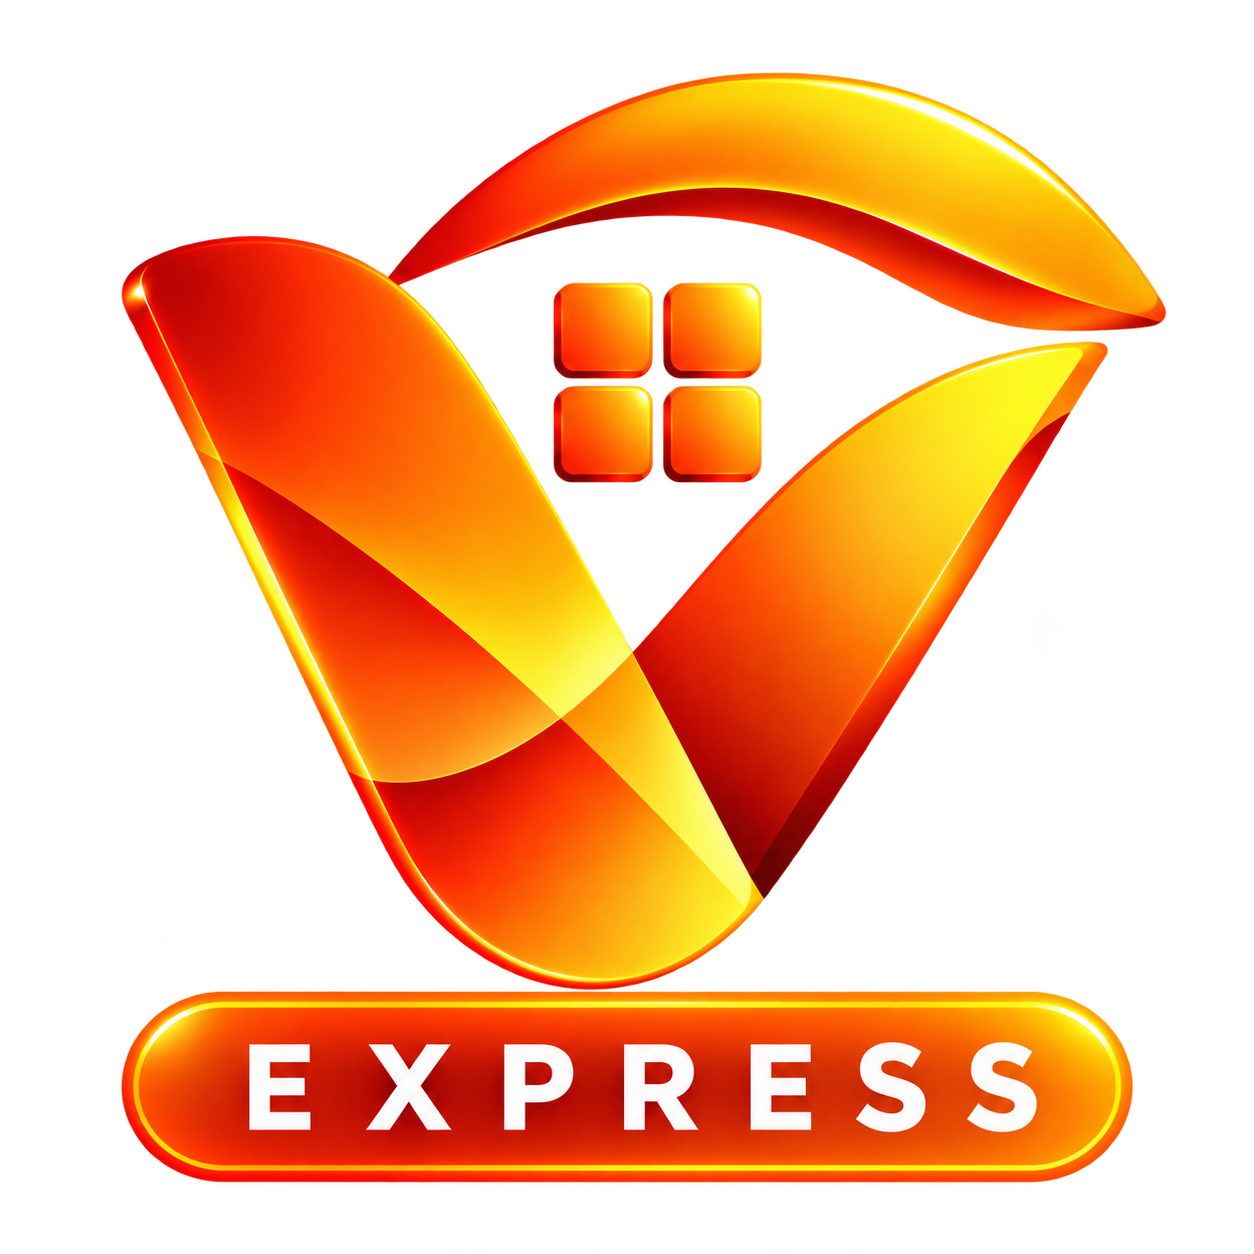
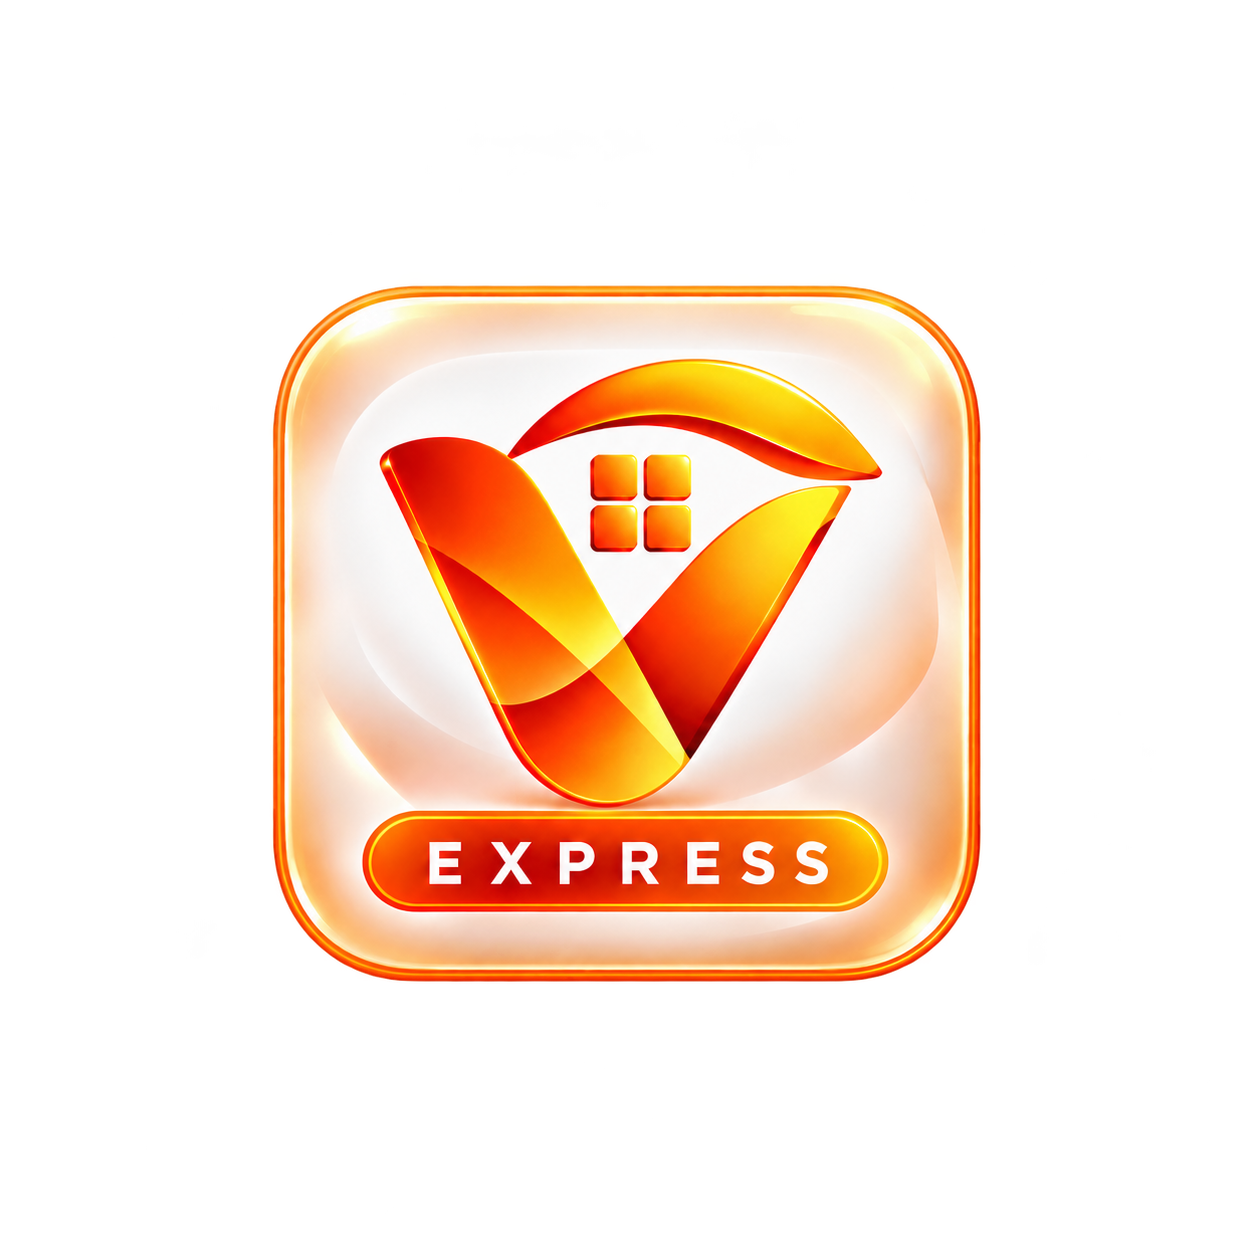
j

diff --git a/src/screens/auth/AuthScreens.tsx b/src/screens/auth/AuthScreens.tsx
@@ -21,6 +21,7 @@ import { colors, radius, shadow } from '../../theme/tokens';
 const footer = (question: string, action: string, onPress: () => void) => (
   <Text style={styles.footerText}>{question} <Text onPress={onPress} style={styles.footerAction}>{action}</Text></Text>
 );
+const sellerLogo = require('../../../assets/brand/vista-seller-logo.png');
 
 function ErrorNotice({ error }: { error: string | null }) {
   return error ? <View accessibilityRole="alert" style={styles.errorNotice}><MaterialCommunityIcons name="alert-circle-outline" size={18} color={colors.red} /><Text style={styles.errorText}>{error}</Text></View> : null;
@@ -31,8 +32,7 @@ export function SplashScreen() {
   return (
     <Screen scroll={false} backgroundColor="#0B3268" statusBarStyle="light" transparentStatusBar style={styles.splash} contentStyle={styles.splashContent}>
       <View style={styles.splashGlowOne} /><View style={styles.splashGlowTwo} />
-      <View style={styles.splashMark}><MaterialCommunityIcons name="glasses" size={46} color="#FFFFFF" /></View>
-      <Text style={styles.splashTitle}>VistaExpress</Text>
+      <View style={styles.splashMark}><Image source={sellerLogo} resizeMode="contain" style={styles.splashLogo} /></View>
       <Text style={styles.splashEyebrow}>{t('splash.eyebrow')}</Text>
       <View style={styles.splashFooter}><View style={styles.loadingBar}><View style={styles.loadingProgress} /></View><Text style={styles.splashCaption}>{t('splash.caption')}</Text></View>
     </Screen>
@@ -65,6 +65,7 @@ export function OnboardingScreen() {
         <View style={[styles.onboardingHero, compact && styles.onboardingHeroCompact]}>
           <Image source={current.image} resizeMode="stretch" style={[styles.onboardingHeroImage, { width, height: width * ONBOARDING_ART_ASPECT_RATIO }]} />
           <LinearGradient colors={['rgba(2, 18, 44, 0.04)', 'rgba(2, 18, 44, 0.20)']} style={styles.onboardingHeroShade} />
+          <View accessibilityRole="image" accessibilityLabel={t('onboarding.page1.eyebrow')} style={styles.onboardingBrandLogo}><Image source={sellerLogo} resizeMode="contain" style={styles.onboardingBrandLogoImage} /></View>
           <View style={styles.onboardingLanguageToggle}><LanguageToggle variant="overlay" /></View>
         </View>
 
@@ -289,8 +290,8 @@ function ReviewStep({ number, color, iconColor, title, copy }: { number: string;
 }
 
 const styles = StyleSheet.create({
-  splash: { backgroundColor: '#0B3268' }, splashContent: { alignItems: 'center', justifyContent: 'center', padding: 28 }, splashGlowOne: { position: 'absolute', top: -100, left: -75, width: 270, height: 270, borderRadius: 135, backgroundColor: '#1765C9', opacity: 0.55 }, splashGlowTwo: { position: 'absolute', bottom: -80, right: -60, width: 230, height: 230, borderRadius: 115, backgroundColor: '#23B09B', opacity: 0.55 }, splashMark: { width: 94, height: 94, borderRadius: 31, alignItems: 'center', justifyContent: 'center', backgroundColor: 'rgba(255,255,255,0.16)', borderWidth: 1, borderColor: 'rgba(255,255,255,0.27)' }, splashTitle: { color: '#FFFFFF', fontSize: 32, letterSpacing: -1.2, fontWeight: '800', marginTop: 18 }, splashEyebrow: { color: '#D8EEFF', fontSize: 11, letterSpacing: 1.4, fontWeight: '800', marginTop: 5 }, splashFooter: { position: 'absolute', bottom: 44, left: 28, right: 28 }, loadingBar: { height: 4, backgroundColor: 'rgba(255,255,255,0.2)', borderRadius: 99, overflow: 'hidden' }, loadingProgress: { width: '68%', height: '100%', borderRadius: 99, backgroundColor: '#FFFFFF' }, splashCaption: { textAlign: 'center', marginTop: 12, color: '#D8EEFF', fontSize: 12 },
-  onboarding: { backgroundColor: '#FFFFFF' }, onboardingPage: { flex: 1, backgroundColor: '#FFFFFF' }, onboardingHero: { height: '59%', minHeight: 392, overflow: 'hidden' }, onboardingHeroCompact: { height: '56%', minHeight: 348 }, onboardingHeroImage: { position: 'absolute', top: 0, left: 0 }, onboardingHeroShade: { ...StyleSheet.absoluteFill }, onboardingLanguageToggle: { position: 'absolute', top: 14, right: 18 }, onboardingCard: { flex: 1, marginTop: -72, minHeight: 316, borderTopLeftRadius: 34, borderTopRightRadius: 34, backgroundColor: '#FFFFFF', paddingHorizontal: 28, paddingTop: 27, paddingBottom: 18, shadowColor: '#0B1930', shadowOpacity: 0.11, shadowRadius: 22, shadowOffset: { width: 0, height: -7 }, elevation: 9 }, onboardingCardCompact: { minHeight: 292, paddingTop: 22, paddingHorizontal: 24 }, onboardingDots: { flexDirection: 'row', alignItems: 'center', gap: 8, marginBottom: 24 }, onboardingDot: { width: 8, height: 8, borderRadius: 99, backgroundColor: '#DDE4ED' }, onboardingDotActive: { width: 24, backgroundColor: colors.teal }, onboardingEyebrow: { color: colors.teal, fontSize: 11, lineHeight: 15, fontWeight: '800', letterSpacing: 1.35, textTransform: 'uppercase' }, onboardingTitle: { color: colors.ink, fontSize: 31, lineHeight: 37, letterSpacing: -1.15, fontWeight: '800', marginTop: 9 }, onboardingDescription: { color: colors.muted, fontSize: 15, lineHeight: 22, marginTop: 10, maxWidth: 340 }, onboardingFooter: { marginTop: 'auto', paddingTop: 18, gap: 14 }, onboardingButton: { minHeight: 54, borderRadius: 16, paddingHorizontal: 20, alignItems: 'center', justifyContent: 'center', flexDirection: 'row', gap: 9, backgroundColor: '#0B3976', shadowColor: '#0B3976', shadowOpacity: 0.28, shadowRadius: 16, shadowOffset: { width: 0, height: 8 }, elevation: 5 }, onboardingButtonText: { color: '#FFFFFF', fontSize: 16, fontWeight: '800' }, onboardingButtonPressed: { opacity: 0.88, transform: [{ scale: 0.99 }] }, onboardingBottomSkip: { alignSelf: 'center', minHeight: 24, justifyContent: 'center', paddingHorizontal: 10 }, onboardingBottomSkipText: { color: '#7B899B', fontSize: 13, fontWeight: '800' },
+  splash: { backgroundColor: '#0B3268' }, splashContent: { alignItems: 'center', justifyContent: 'center', padding: 28 }, splashGlowOne: { position: 'absolute', top: -100, left: -75, width: 270, height: 270, borderRadius: 135, backgroundColor: '#1765C9', opacity: 0.55 }, splashGlowTwo: { position: 'absolute', bottom: -80, right: -60, width: 230, height: 230, borderRadius: 115, backgroundColor: '#23B09B', opacity: 0.55 }, splashMark: { width: 196, height: 98, padding: 5, borderRadius: 29, alignItems: 'center', justifyContent: 'center', backgroundColor: 'rgba(255,255,255,0.94)', borderWidth: 1, borderColor: 'rgba(255,255,255,0.82)' }, splashLogo: { width: '100%', height: '100%' }, splashEyebrow: { color: '#D8EEFF', fontSize: 11, letterSpacing: 1.4, fontWeight: '800', marginTop: 12 }, splashFooter: { position: 'absolute', bottom: 44, left: 28, right: 28 }, loadingBar: { height: 4, backgroundColor: 'rgba(255,255,255,0.2)', borderRadius: 99, overflow: 'hidden' }, loadingProgress: { width: '68%', height: '100%', borderRadius: 99, backgroundColor: '#FFFFFF' }, splashCaption: { textAlign: 'center', marginTop: 12, color: '#D8EEFF', fontSize: 12 },
+  onboarding: { backgroundColor: '#FFFFFF' }, onboardingPage: { flex: 1, backgroundColor: '#FFFFFF' }, onboardingHero: { height: '59%', minHeight: 392, overflow: 'hidden' }, onboardingHeroCompact: { height: '56%', minHeight: 348 }, onboardingHeroImage: { position: 'absolute', top: 0, left: 0 }, onboardingHeroShade: { ...StyleSheet.absoluteFill }, onboardingBrandLogo: { position: 'absolute', top: 12, left: 16, width: 120, height: 60, padding: 4, borderRadius: 16, backgroundColor: 'rgba(255,255,255,0.92)' }, onboardingBrandLogoImage: { width: '100%', height: '100%' }, onboardingLanguageToggle: { position: 'absolute', top: 14, right: 18 }, onboardingCard: { flex: 1, marginTop: -72, minHeight: 316, borderTopLeftRadius: 34, borderTopRightRadius: 34, backgroundColor: '#FFFFFF', paddingHorizontal: 28, paddingTop: 27, paddingBottom: 18, shadowColor: '#0B1930', shadowOpacity: 0.11, shadowRadius: 22, shadowOffset: { width: 0, height: -7 }, elevation: 9 }, onboardingCardCompact: { minHeight: 292, paddingTop: 22, paddingHorizontal: 24 }, onboardingDots: { flexDirection: 'row', alignItems: 'center', gap: 8, marginBottom: 24 }, onboardingDot: { width: 8, height: 8, borderRadius: 99, backgroundColor: '#DDE4ED' }, onboardingDotActive: { width: 24, backgroundColor: colors.teal }, onboardingEyebrow: { color: colors.teal, fontSize: 11, lineHeight: 15, fontWeight: '800', letterSpacing: 1.35, textTransform: 'uppercase' }, onboardingTitle: { color: colors.ink, fontSize: 31, lineHeight: 37, letterSpacing: -1.15, fontWeight: '800', marginTop: 9 }, onboardingDescription: { color: colors.muted, fontSize: 15, lineHeight: 22, marginTop: 10, maxWidth: 340 }, onboardingFooter: { marginTop: 'auto', paddingTop: 18, gap: 14 }, onboardingButton: { minHeight: 54, borderRadius: 16, paddingHorizontal: 20, alignItems: 'center', justifyContent: 'center', flexDirection: 'row', gap: 9, backgroundColor: '#0B3976', shadowColor: '#0B3976', shadowOpacity: 0.28, shadowRadius: 16, shadowOffset: { width: 0, height: 8 }, elevation: 5 }, onboardingButtonText: { color: '#FFFFFF', fontSize: 16, fontWeight: '800' }, onboardingButtonPressed: { opacity: 0.88, transform: [{ scale: 0.99 }] }, onboardingBottomSkip: { alignSelf: 'center', minHeight: 24, justifyContent: 'center', paddingHorizontal: 10 }, onboardingBottomSkipText: { color: '#7B899B', fontSize: 13, fontWeight: '800' },
   secondaryButton: { marginTop: 10 }, skip: { alignItems: 'center', paddingVertical: 14 }, skipText: { color: colors.muted, fontSize: 13, fontWeight: '700' }, signInOptions: { flexDirection: 'row', justifyContent: 'space-between', alignItems: 'center', marginTop: 15, gap: 10 }, remember: { color: colors.muted, fontSize: 12, flex: 1 }, forgot: { color: colors.blue, fontSize: 12, fontWeight: '800' }, submit: { marginTop: 20 }, footerText: { color: colors.muted, textAlign: 'center', fontSize: 13 }, footerAction: { color: colors.blue, fontWeight: '800' }, terms: { color: colors.muted, textAlign: 'center', fontSize: 12, marginTop: 13 }, passwordHint: { marginTop: 15, backgroundColor: colors.surface, borderRadius: radius.md, padding: 12, flexDirection: 'row', alignItems: 'center', ...shadow.card }, hintIcon: { width: 30, height: 30, borderRadius: 15, alignItems: 'center', justifyContent: 'center', backgroundColor: '#E8F8EF', marginRight: 9 }, hintTitle: { color: colors.ink, fontSize: 13, fontWeight: '800' }, hintCopy: { color: colors.muted, fontSize: 12, marginTop: 2 }, reviewStep: { marginTop: 14, backgroundColor: colors.surface, padding: 13, borderRadius: radius.md, flexDirection: 'row', alignItems: 'center', ...shadow.card }, reviewNumber: { width: 32, height: 32, borderRadius: 16, justifyContent: 'center', alignItems: 'center', marginRight: 10 },
   errorNotice: { backgroundColor: '#FFF0F1', borderRadius: radius.sm, padding: 11, flexDirection: 'row', alignItems: 'flex-start', gap: 8, marginTop: 15 }, errorText: { color: '#A63038', fontSize: 12, lineHeight: 17, flex: 1, fontWeight: '600' }, sentNotice: { marginTop: 20, borderRadius: radius.md, padding: 14, backgroundColor: '#EAF8F1', flexDirection: 'row', gap: 10 }, sentText: { color: '#286649', fontSize: 12, lineHeight: 18, flex: 1 },
 });

diff --git a/src/components/brand/BrandArtwork.tsx b/src/components/brand/BrandArtwork.tsx
@@ -1,16 +1,18 @@
-import { StyleSheet, Text, View } from 'react-native';
+import { Image, StyleSheet, Text, View } from 'react-native';
 import { LinearGradient } from 'expo-linear-gradient';
-import { MaterialCommunityIcons } from '@expo/vector-icons';
 import { gradients } from '../../theme/tokens';
 
 type BrandArtworkProps = { title: string; eyebrow: string; compact?: boolean };
+const sellerLogo = require('../../../assets/brand/vista-seller-logo.png');
 
 export function BrandArtwork({ title, eyebrow, compact = false }: BrandArtworkProps) {
   return (
     <LinearGradient colors={gradients.auth} style={[styles.art, compact && styles.compact]}>
       <View style={styles.dotOne} />
       <View style={styles.dotTwo} />
-      <View style={styles.glasses}><MaterialCommunityIcons name="glasses" size={compact ? 55 : 68} color="rgba(255,255,255,0.93)" /></View>
+      <View style={[styles.logoPlate, compact && styles.logoPlateCompact]}>
+        <Image source={sellerLogo} resizeMode="contain" style={styles.logo} />
+      </View>
       <View style={styles.copy}>
         <Text style={styles.title}>{title}</Text>
         <Text style={styles.eyebrow}>{eyebrow}</Text>
@@ -24,7 +26,9 @@ const styles = StyleSheet.create({
   compact: { height: 176 },
   dotOne: { position: 'absolute', width: 52, height: 52, borderRadius: 26, backgroundColor: '#8AD7FF', left: '22%', top: 24, opacity: 0.9 },
   dotTwo: { position: 'absolute', width: 60, height: 60, borderRadius: 30, backgroundColor: '#72D8BD', right: '18%', top: 16, opacity: 0.88 },
-  glasses: { position: 'absolute', left: 0, right: 0, top: 46, alignItems: 'center', transform: [{ rotate: '-8deg' }] },
+  logoPlate: { position: 'absolute', top: 19, alignSelf: 'center', width: 152, height: 76, padding: 4, borderRadius: 21, backgroundColor: 'rgba(255,255,255,0.94)', borderWidth: 1, borderColor: 'rgba(255,255,255,0.78)' },
+  logoPlateCompact: { top: 12, width: 128, height: 64, borderRadius: 18 },
+  logo: { width: '100%', height: '100%' },
   copy: { position: 'absolute', left: 22, bottom: 20 },
   title: { color: '#FFFFFF', fontSize: 24, fontWeight: '800', letterSpacing: -1 },
   eyebrow: { color: '#D8EEFF', fontSize: 10, fontWeight: '800', letterSpacing: 1.1, marginTop: 4 },
